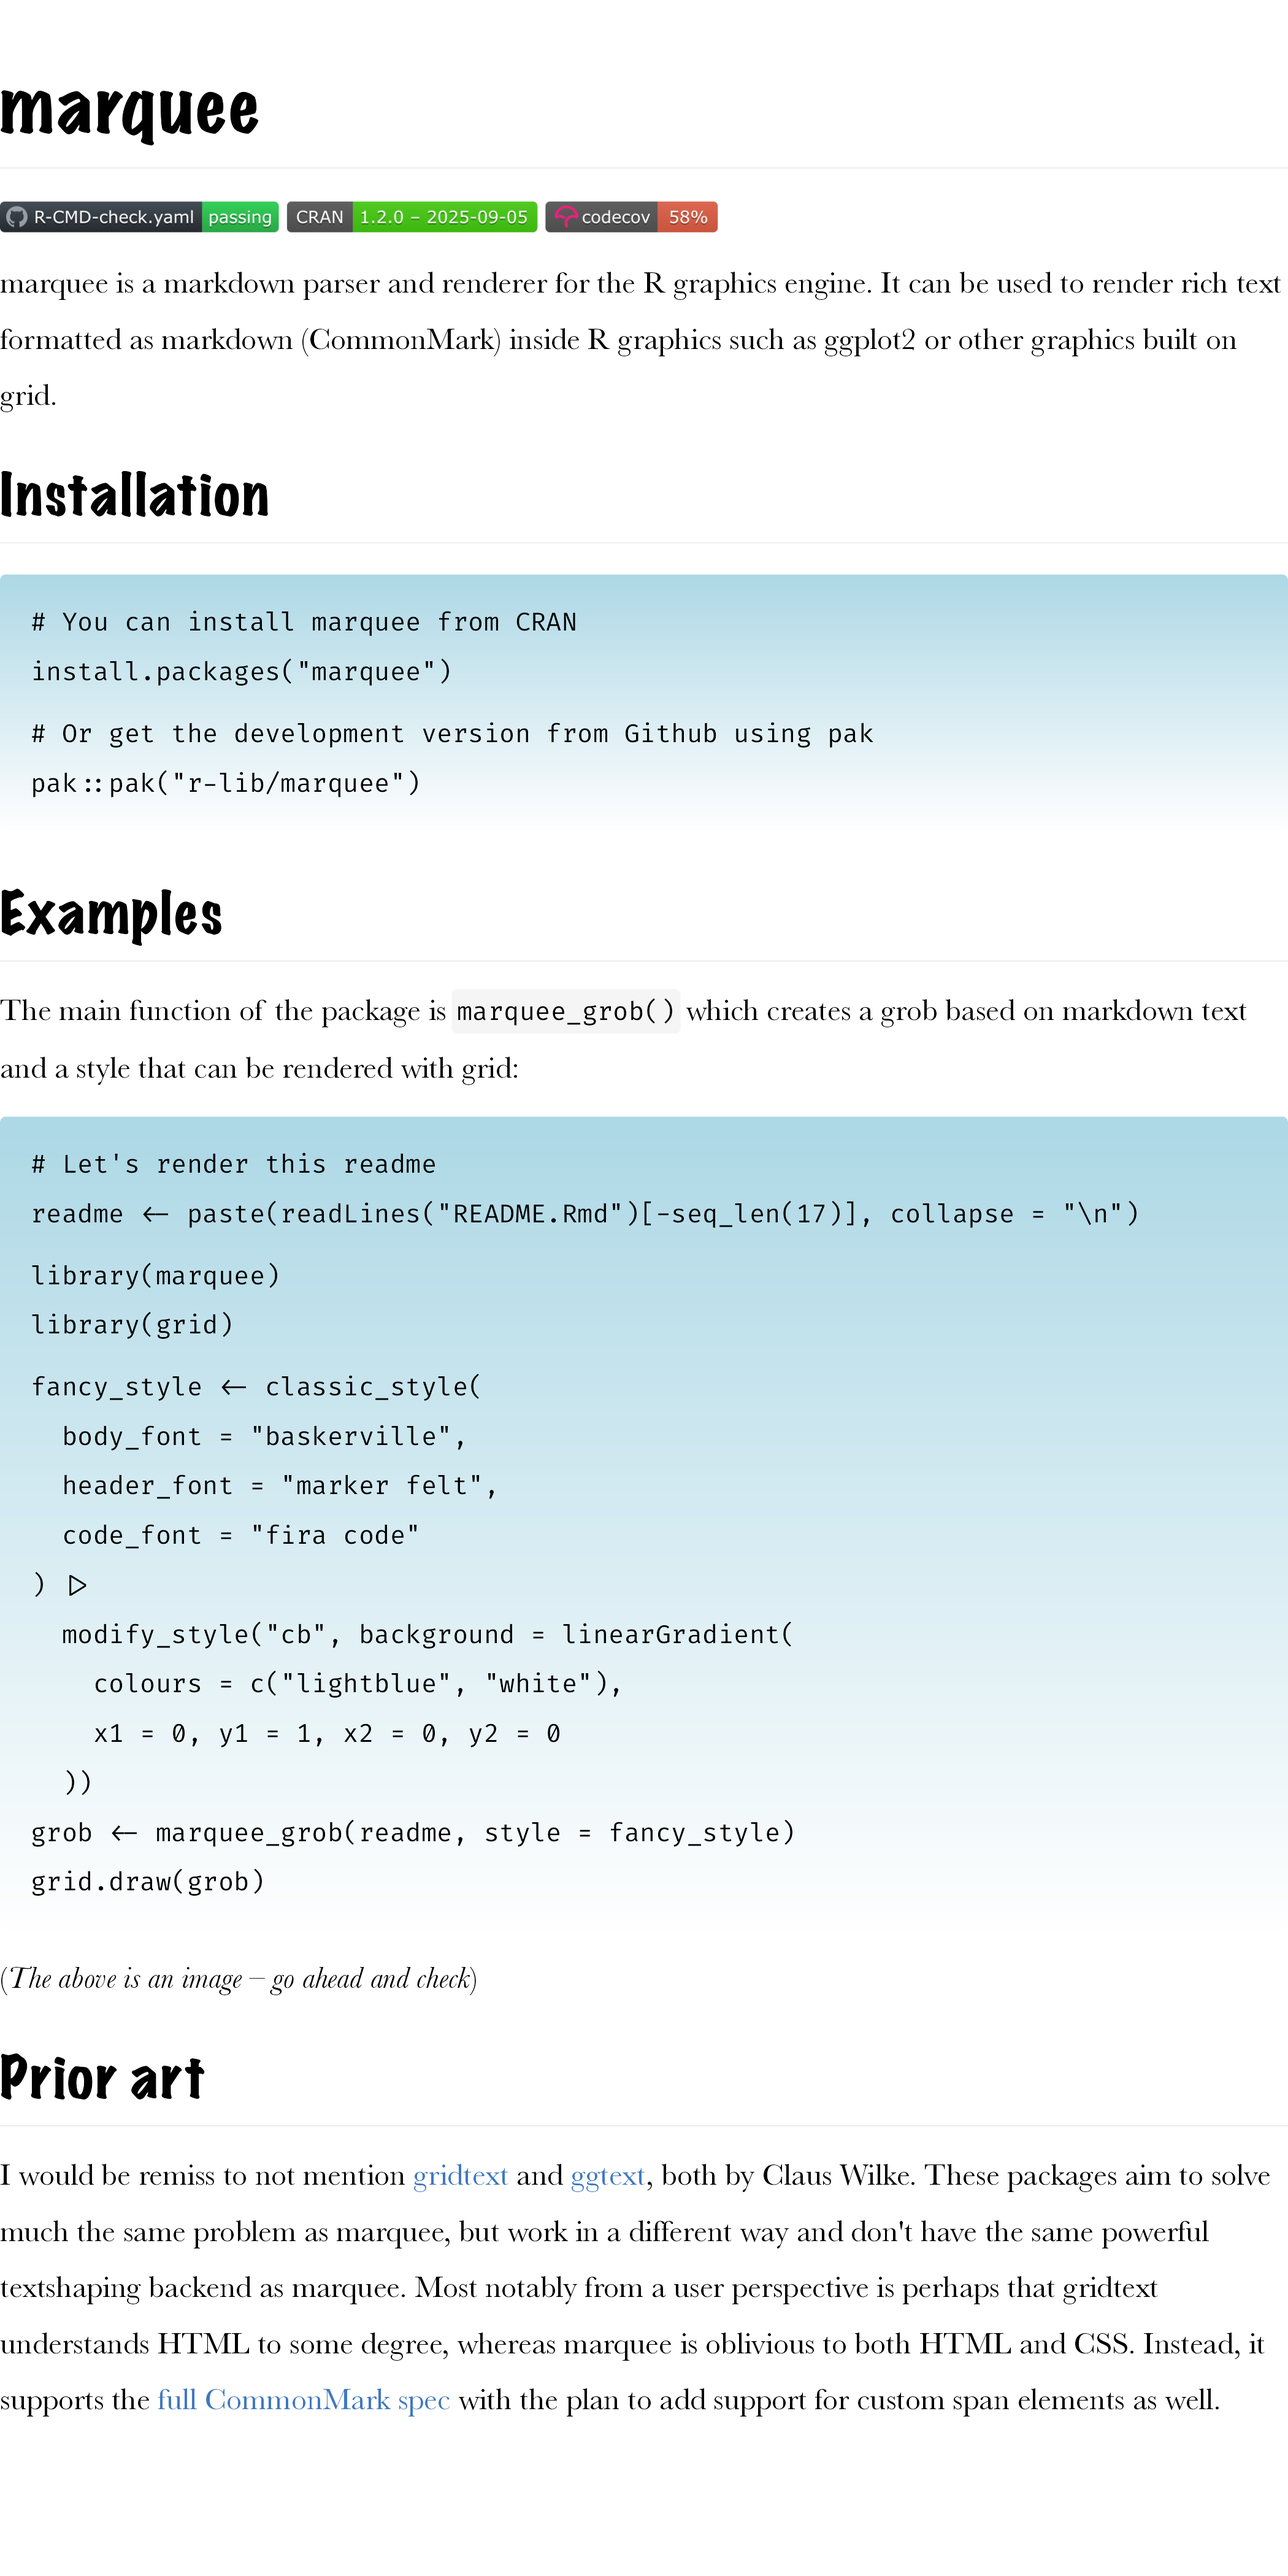
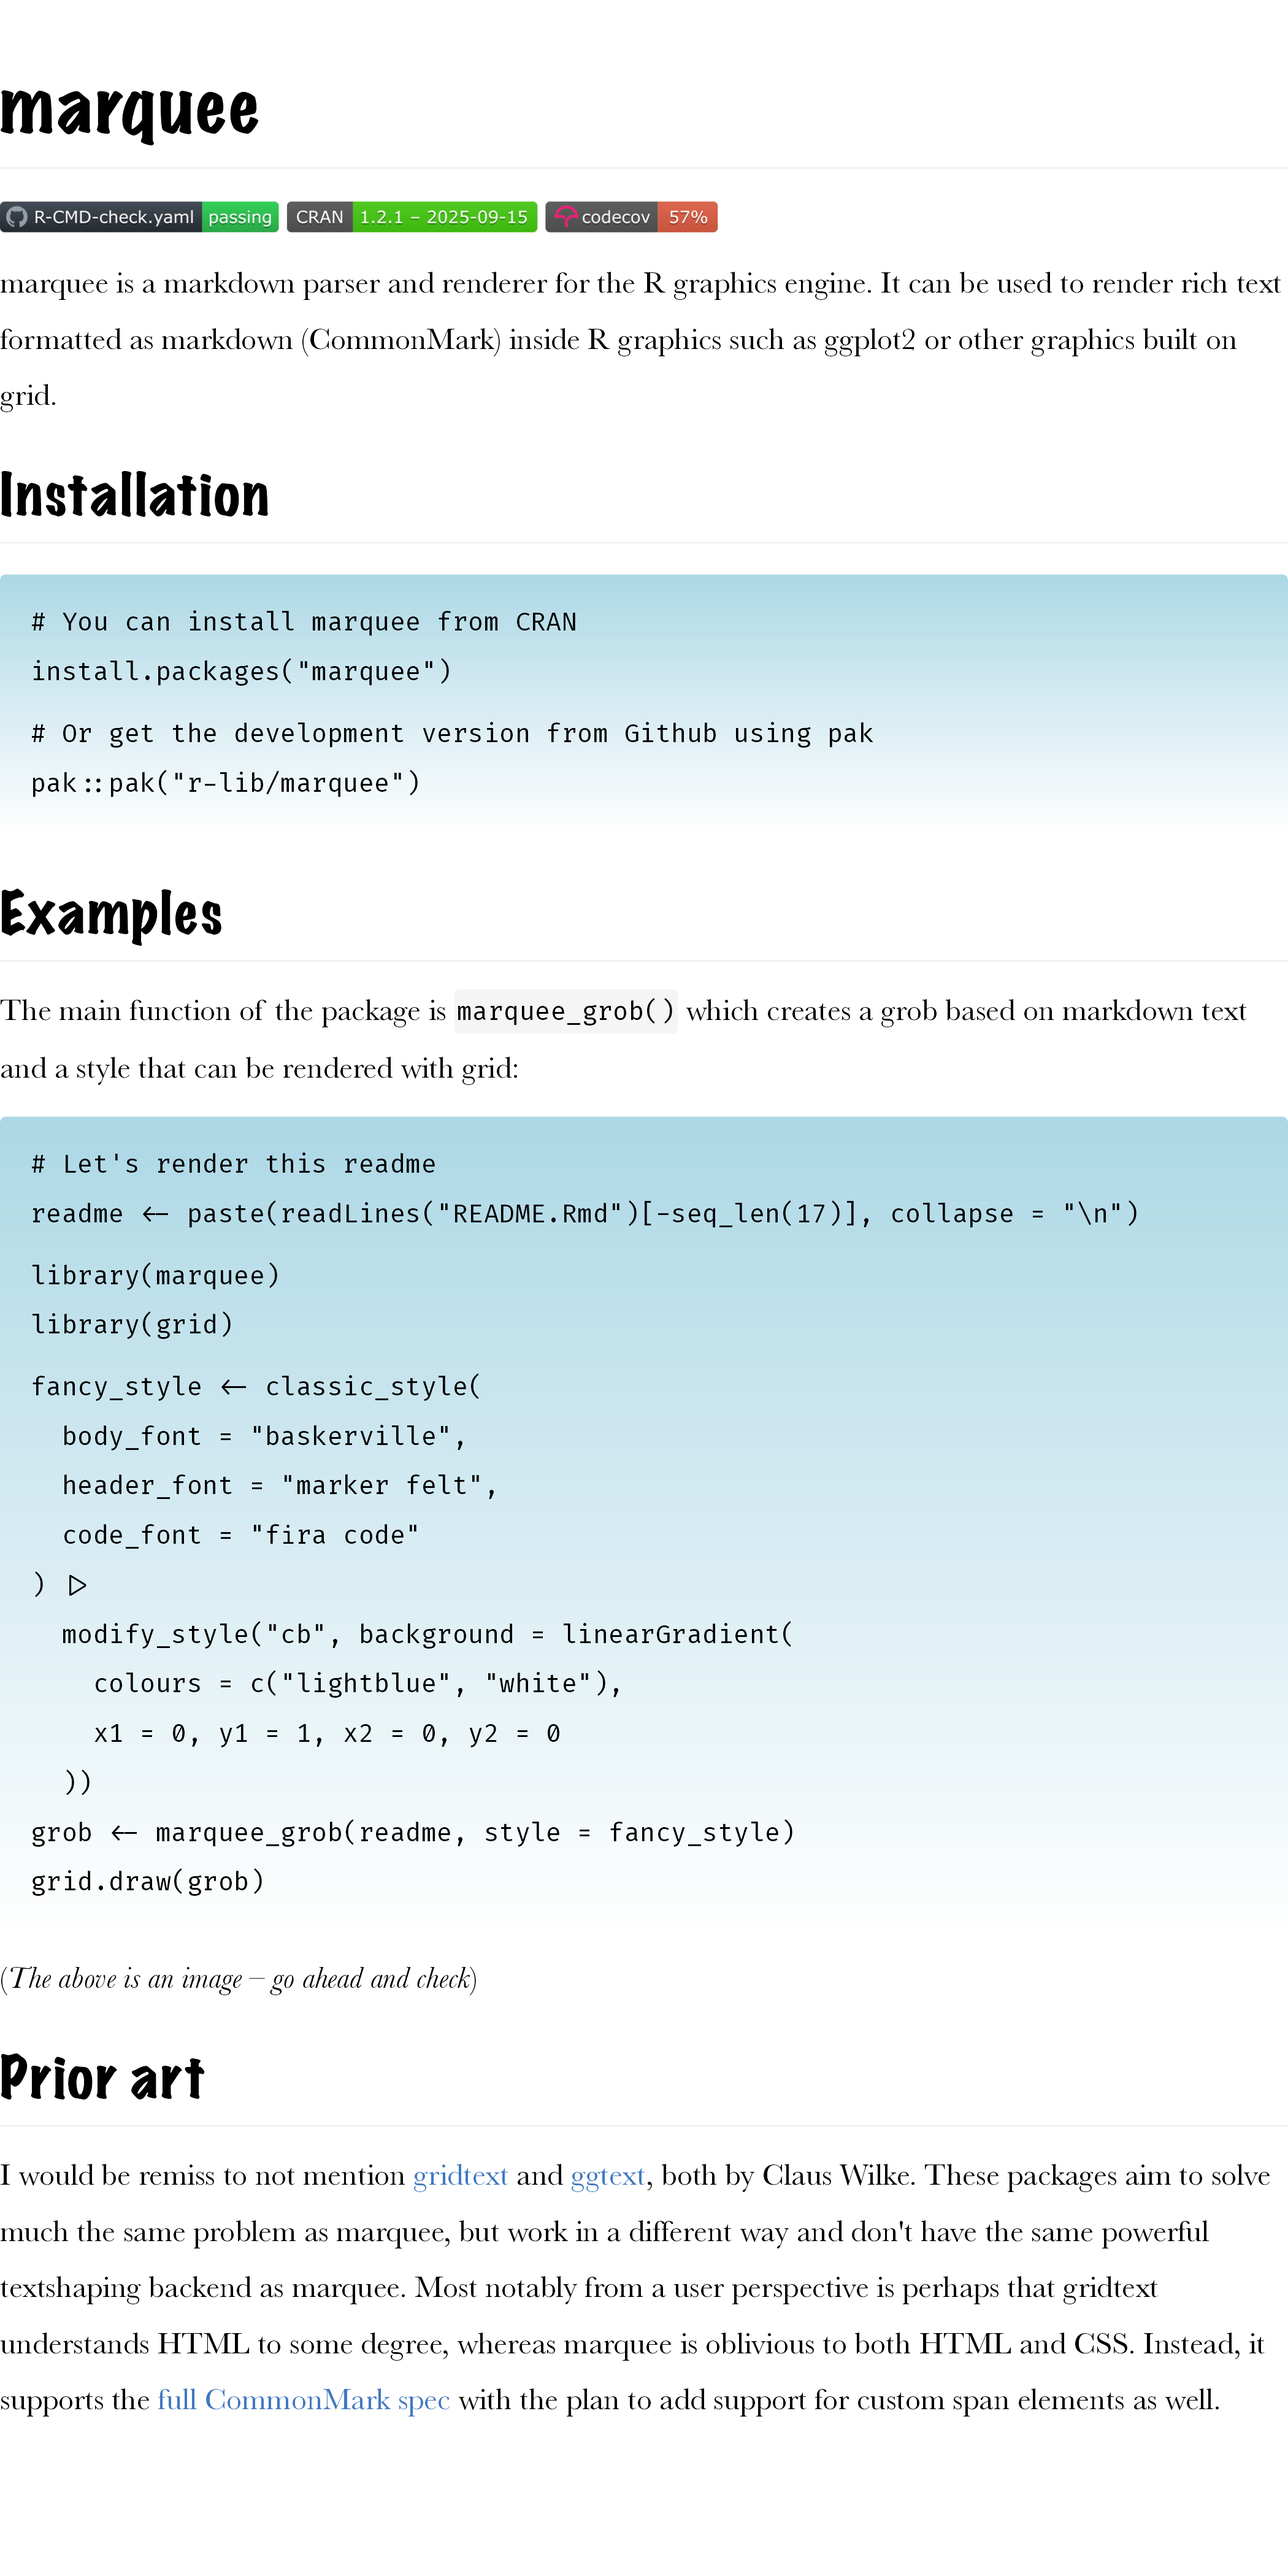
Prep for release

diff --git a/revdep/README.md b/revdep/README.md
@@ -1,38 +1,2 @@
-# Platform
-
-|field    |value                                                                                               |
-|:--------|:---------------------------------------------------------------------------------------------------|
-|version  |R version 4.5.0 (2025-04-11)                                                                        |
-|os       |macOS Sequoia 15.6.1                                                                                |
-|system   |aarch64, darwin20                                                                                   |
-|ui       |X11                                                                                                 |
-|language |(EN)                                                                                                |
-|collate  |en_US.UTF-8                                                                                         |
-|ctype    |en_US.UTF-8                                                                                         |
-|tz       |Europe/Copenhagen                                                                                   |
-|date     |2025-09-05                                                                                          |
-|pandoc   |3.6.3 @ /Applications/Positron.app/Contents/Resources/app/quarto/bin/tools/aarch64/ (via rmarkdown) |
-|quarto   |1.7.31 @ /Applications/quarto/bin/quarto                                                            |
-
-# Dependencies
-
-|package     |old    |new        |Δ  |
-|:-----------|:------|:----------|:--|
-|marquee     |1.1.1  |1.1.1.9000 |*  |
-|base64enc   |0.1-3  |0.1-3      |   |
-|cli         |3.6.5  |3.6.5      |   |
-|cpp11       |0.5.2  |0.5.2      |   |
-|glue        |1.8.0  |1.8.0      |   |
-|jpeg        |0.1-11 |0.1-11     |   |
-|jsonlite    |2.0.0  |2.0.0      |   |
-|lifecycle   |1.0.4  |1.0.4      |   |
-|png         |0.1-8  |0.1-8      |   |
-|rlang       |1.1.6  |1.1.6      |   |
-|S7          |0.2.0  |0.2.0      |   |
-|stringi     |1.8.7  |1.8.7      |   |
-|systemfonts |1.2.3  |1.2.3      |   |
-|textshaping |1.0.3  |1.0.3      |   |
-|vctrs       |0.6.5  |0.6.5      |   |
-
 # Revdeps
 

diff --git a/cran-comments.md b/cran-comments.md
@@ -1,9 +1,8 @@
-minor release with further improvements to styling
+minor release with many fixes and new math formula support
 
 ## revdepcheck results
 
-We checked 1 reverse dependencies, comparing R CMD check results across CRAN and dev versions of this package.
+We checked 4 reverse dependencies, comparing R CMD check results across CRAN and dev versions of this package.
 
  * We saw 0 new problems
  * We failed to check 0 packages
-

diff --git a/revdep/cran.md b/revdep/cran.md
@@ -1,6 +1,6 @@
 ## revdepcheck results
 
-We checked 1 reverse dependencies, comparing R CMD check results across CRAN and dev versions of this package.
+We checked 4 reverse dependencies, comparing R CMD check results across CRAN and dev versions of this package.
 
  * We saw 0 new problems
  * We failed to check 0 packages

diff --git a/README.md b/README.md
@@ -51,7 +51,7 @@ grob <- marquee_grob(readme, style = fancy_style)
 grid.draw(grob)
 ```
 
-<img src="man/figures/README-unnamed-chunk-2-1.png" width="100%" />
+<img src="man/figures/README-unnamed-chunk-2-1.png" alt="" width="100%" />
 
 (*The above is an image – go ahead and check*)
 
